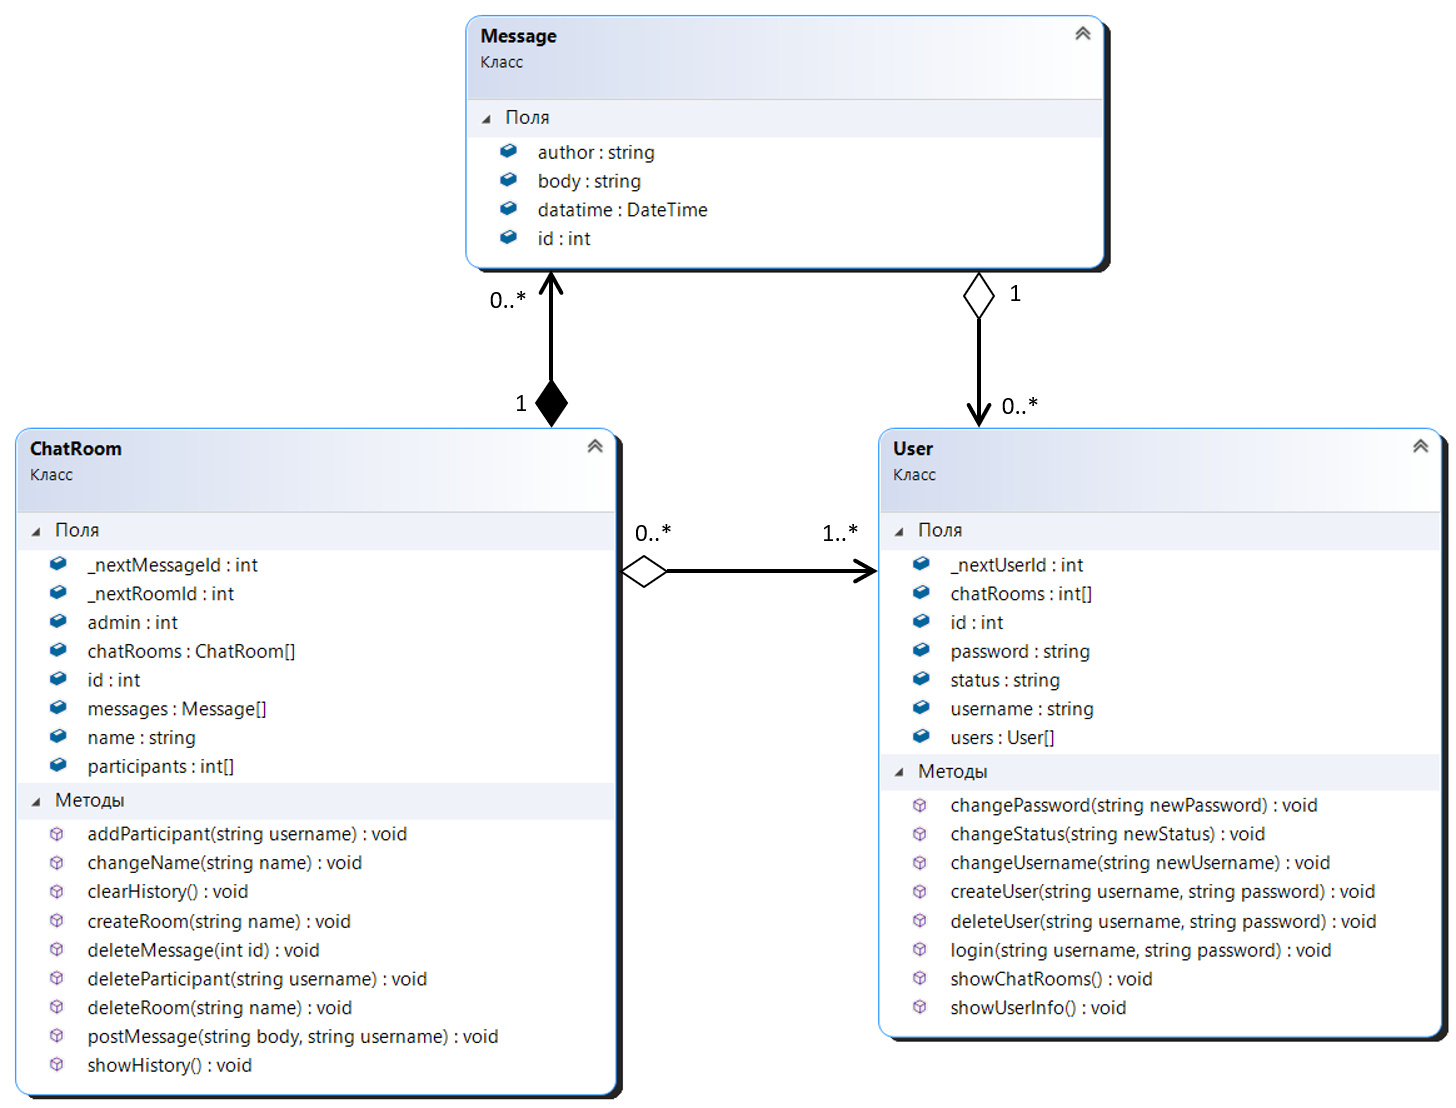
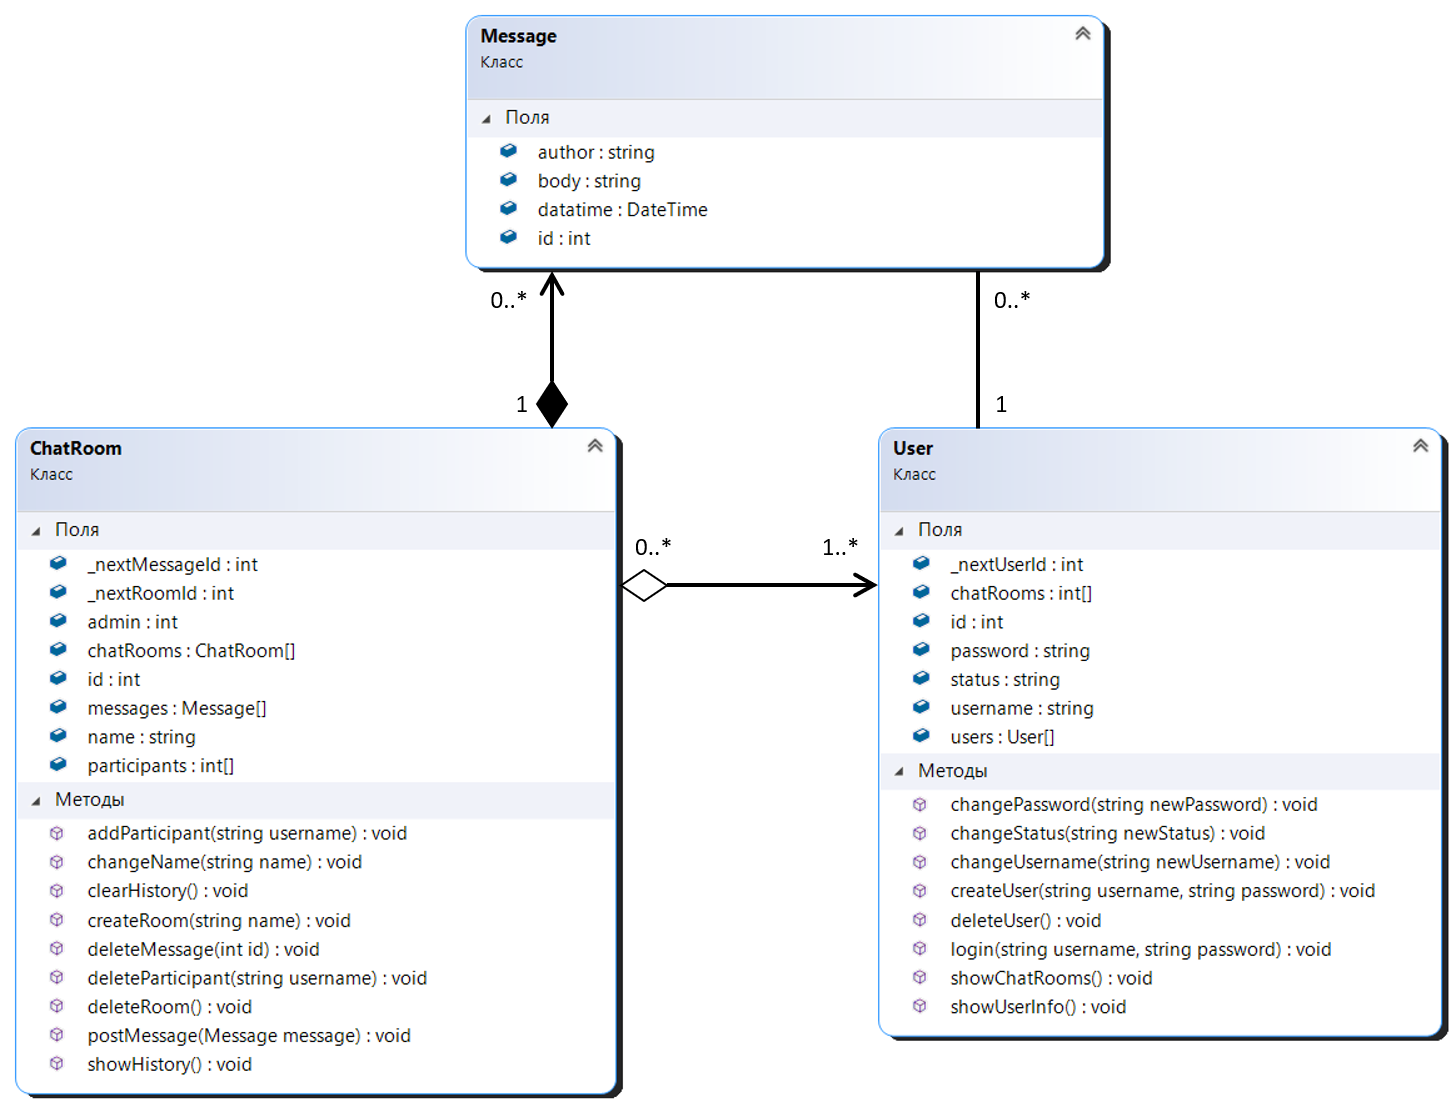
update class diagram

diff --git a/lab/Lab1.html b/lab/Lab1.html
@@ -214,7 +214,7 @@
         <ul>
           <li>ChatRoom – User – агрегація, оскільки чат не може існувати
              без учасників, проте користувач може не мати жодного чату.</li>
-          <li>Message – User –  агрегація, оскільки у будь-якого повідомлення є автор-користувач.</li>
+          <li>Message – User –  асоціація, оскільки у будь-якого повідомлення є автор-користувач.</li>
           <li>ChatRoom – Message – композиція, оскільки повідомлення
             є невід’ємною складовою кожної чат кімнати.</li>
         </ul>
